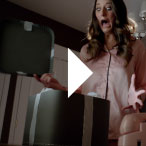
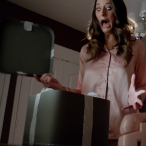
play btn, mouseover border

Changed region(s): [[0.4658, 0.3288, 0.6575, 0.6849], [0.9589, 0.1096, 0.9863, 0.137], [0.6575, 0.0548, 0.6849, 0.0822]]

diff --git a/static/index.html b/static/index.html
@@ -254,6 +254,9 @@
                                         <div class="video-2-3-preview" height="150">
                                             <img src="images/video2_1.jpg" width="100%" alt="">
                                             <div class="preview-mask"></div>
+                                            <div class="play_btn">
+                                                <img src="images/video_play.png" width="100%" alt="">
+                                            </div>
                                         </div>
                                     </div>
                                 </li><!--
@@ -264,6 +267,10 @@
                                         </div>
                                         <div class="video-2-3-preview" height="150">
                                             <img src="images/video2_2.jpg" width="100%" alt="">
+                                            <div class="preview-mask"></div>
+                                            <div class="play_btn">
+                                                <img src="images/video_play.png" width="100%" alt="">
+                                            </div>
                                         </div>
                                     </div>
                                 </li><!--
@@ -274,6 +281,10 @@
                                         </div>
                                         <div class="video-2-3-preview" height="150">
                                             <img src="images/video2_3.jpg" width="100%" alt="">
+                                            <div class="preview-mask"></div>
+                                            <div class="play_btn">
+                                                <img src="images/video_play.png" width="100%" alt="">
+                                            </div>
                                         </div>
                                     </div>
                                 </li><!--
@@ -284,6 +295,10 @@
                                         </div>
                                         <div class="video-2-3-preview" height="150">
                                             <img src="images/video2_4.jpg" width="100%" alt="">
+                                            <div class="preview-mask"></div>
+                                            <div class="play_btn">
+                                                <img src="images/video_play.png" width="100%" alt="">
+                                            </div>
                                         </div>
                                     </div>
                                 </li>
@@ -298,12 +313,11 @@
                     <img src="images/video3_text.png" alt='#纠结心事#吐槽大赛，正在优酷上演' class="video4_text"/>
                     <div id="hs-content-2-4" class="hotspot-content" width="840" height="500">
                         <div class="hs-content-2-4-left" width="424">
-                            <div class="left-video-title" id="video3_title" height="31">
+                            <div class="left-video-title1" id="video3_title" height="31">
                                 <span>@九九希</span>
                             </div>
                             <div class="video3_container">                           
                                 <div id="hotspot-2-4-player" class="video_player">
-                                    <iframe height=100% width=100% src='http://static.youku.com/v/swf/qplayer.swf?VideoIDS=XOTAxMTUzOTI0&isAutoPlay=false&isShowRelatedVideo=false&embedid=-&showAd=0' frameborder=0 allowfullscreen></iframe>
                                 </div>
                             </div>
                         </div><!--
@@ -316,6 +330,10 @@
                                         </div>
                                         <div class="video-2-4-preview" height="134">
                                             <img src="images/video3_1.jpg" width="100%" alt="">
+                                            <div class="preview-mask"></div>
+                                            <div class="play_btn1">
+                                                <img src="images/video_play.png" width="100%" alt="">
+                                            </div>
                                         </div>
                                     </div>
                                 </li><!--
@@ -326,16 +344,21 @@
                                         </div>
                                         <div class="video-2-4-preview" height="134">
                                             <img src="images/video3_2.jpg" width="100%" alt="">
+                                            <div class="preview-mask"></div>
+                                            <div class="play_btn1">
+                                                <img src="images/video_play.png" width="100%" alt="">
+                                            </div>
                                         </div>
                                     </div>
                                 </li><!--
-                                --><li>
-                                    <div class="video">
+                                --><li class="">
+                                    <div class="video video2_4_3 display:none">
                                         <div class="video-2-4-title" height="44">
                                             <span>@lily</span>
                                         </div>
                                         <div class="video-2-4-preview" height="134">
                                             <img src="images/video3_3.jpg" width="100%" alt="">
+                                            <div class="preview-mask"></div>
                                         </div>
                                     </div>
                                 </li>

diff --git a/static/js/app.js b/static/js/app.js
@@ -305,8 +305,8 @@ var video2_3 = [
 
 var video2_4 =[
     "<iframe height=100% width=100% src='http://static.youku.com/v/swf/qplayer.swf?VideoIDS=XOTAxMTUzOTI0&isAutoPlay=true&isShowRelatedVideo=false&embedid=-&showAd=0' frameborder=0 allowfullscreen></iframe>",
-    "<iframe height=100% width=100% src='http://static.youku.com/v/swf/qplayer.swf?VideoIDS=XOTAxODA4OTI4&isAutoPlay=true&isShowRelatedVideo=false&embedid=-&showAd=0' frameborder=0 allowfullscreen></iframe>",
-]
+    "<iframe height=100% width=100% src='http://static.youku.com/v/swf/qplayer.swf?VideoIDS=XOTAxODA4OTI4&isAutoPlay=true&isShowRelatedVideo=false&embedid=-&showAd=0' frameborder=0 allowfullscreen></iframe>"
+];
 
 $(function(){
     /* reset the background image when document is ready */
@@ -415,8 +415,22 @@ $(function(){
     });
     $(".video-2-4-preview").click(function(e){
         var index = $(this).parents("li").index();
-        $(".left-video-title").html($(this).parent().find(".video-2-4-title").html());
+        $(".left-video-title1").html($(this).parent().find(".video-2-4-title").html());
         
         $("#hotspot-2-4-player").html(video2_4[index]);
     });
 });
+
+
+    //mouseover 改变视频边框颜色
+    $(".video-2-3-preview").mousemove(function(){
+        console.log("change");
+        $(this).css({
+            "border": "#FFF"
+        })
+ 
+    });
+    $(".video2-2-3-preview").mouseout(function(){
+
+    });
+

diff --git a/static/css/yuan.css b/static/css/yuan.css
@@ -1,4 +1,4 @@
-
+ 
 
 /*video1 hs-content-2-1*/
 .video1_text{
@@ -298,6 +298,24 @@
     border-style: solid;
     border-size: 0.5px;
 }
+
+.video-2-4-preview .preview-mask {
+    position: absolute;
+    top:0;
+    left:0;
+    width: 100%;
+    height: 100%;
+    background: #000;
+    opacity: 0;
+}
+
+.video-2-4-preview:hover {
+    cursor: pointer;
+    border: #FFF;
+    border-style: solid;
+    border-size: 0.5px;
+}
+
 .video-2-4-preview img{
     position: relative;
     margin: auto;
@@ -305,4 +323,18 @@
     height: 100%;
 }
 
+.play_btn{
+    position: absolute;
+    width: 18.55%;
+    top: 29.725%;
+    left:41.725%;
 
+}
+
+.play_btn1{
+    position: absolute;
+    width: 18.55%;
+    top: 29.725%;
+    left:41.725%;
+
+}

diff --git a/static/css/style.css b/static/css/style.css
@@ -485,7 +485,7 @@ a:focus {
     left:0;
     width: 100%;
     height: 100%;
-    background: #FFF;
+    background: #000;
     opacity: 0;
 }
 
